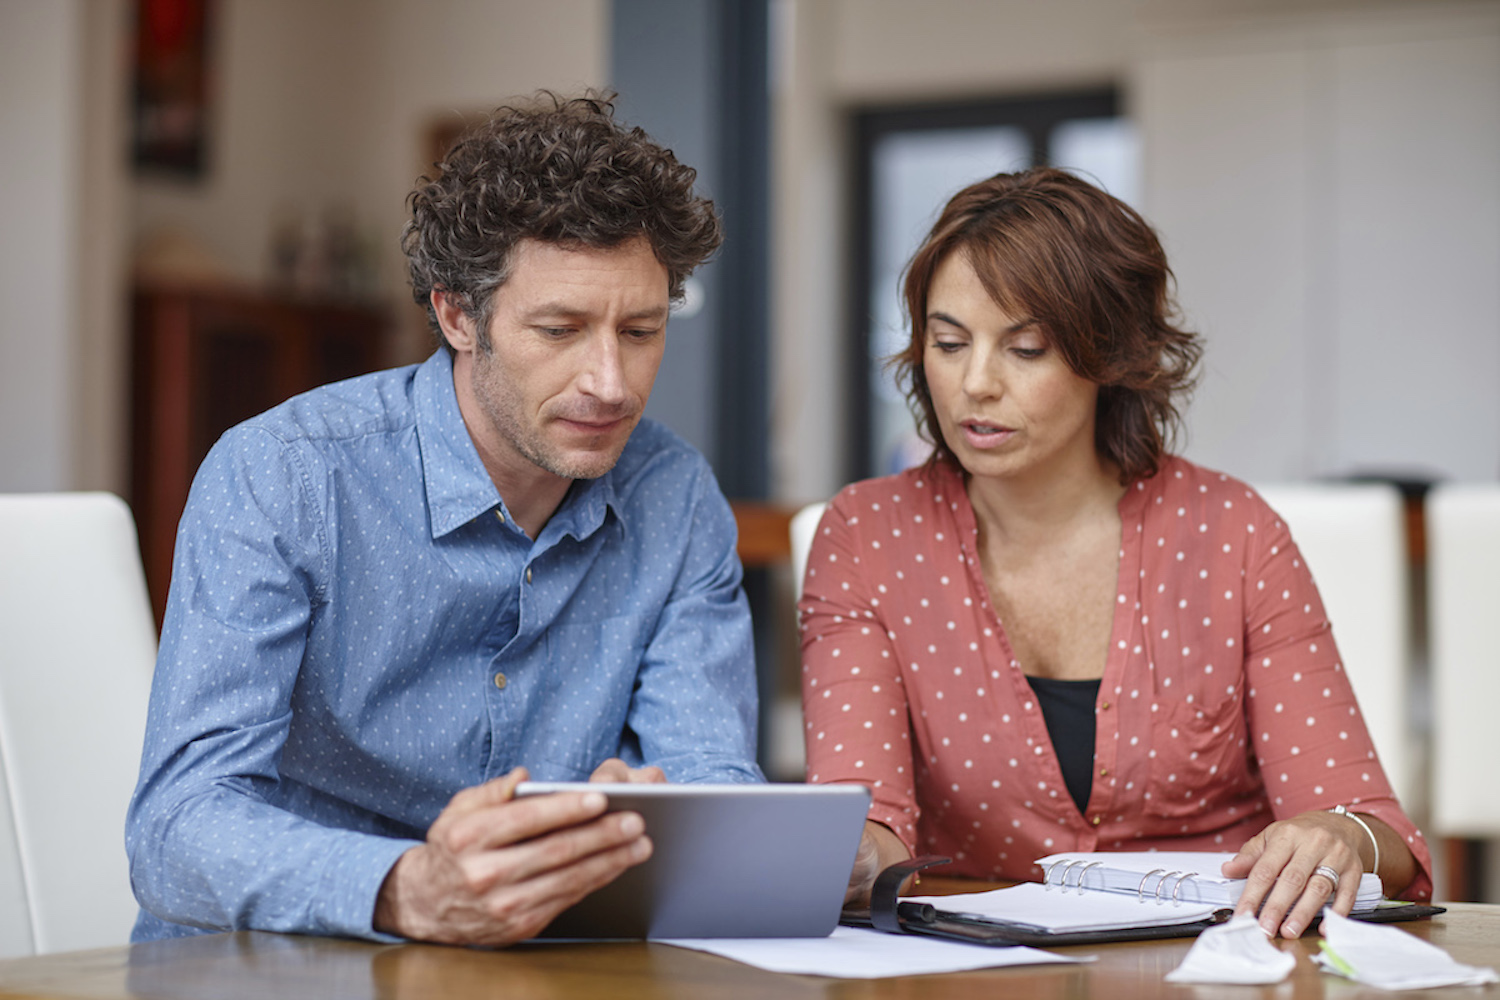
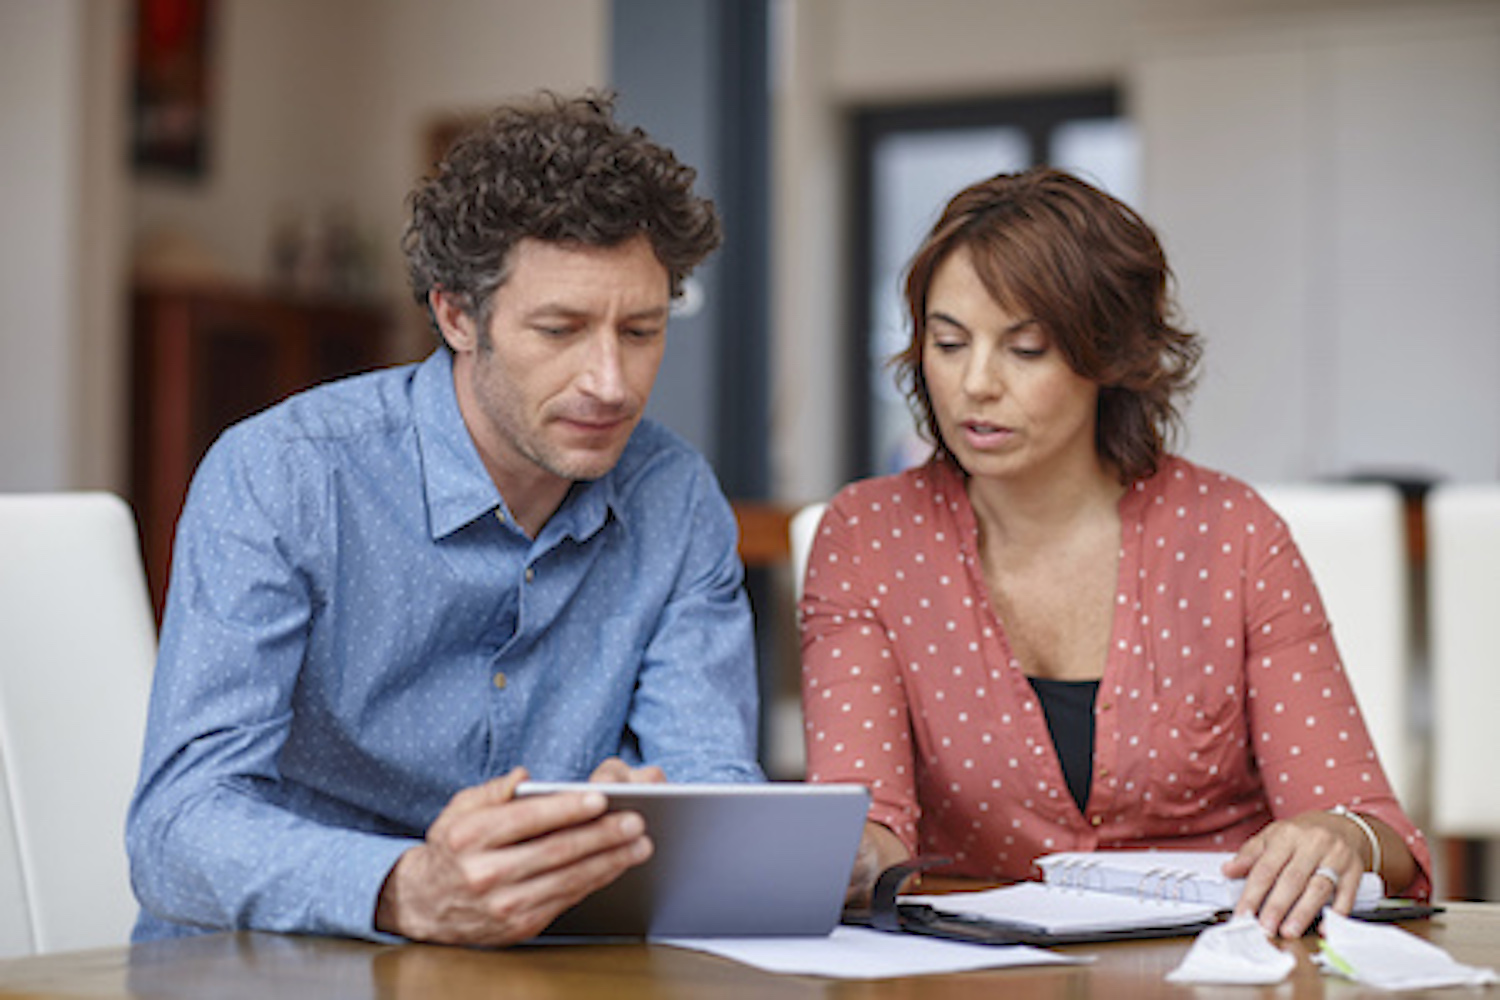
Resized background image, changed image styles

diff --git a/app/styles/missouri.scss b/app/styles/missouri.scss
@@ -5,19 +5,17 @@
 
 .mo-header {
   background-color: #ffb717;
-  height: 200px;
+  height: 100px;
 
   img {
-    width: 50%;
     float: left;
     height: 90%;
-    padding: 1em;
+    padding: 0.5em;
   }
 
   li {
     float: left;
     display: inline-block;
-    text-align: center;
     padding-right: 15px;
   }
 
@@ -29,7 +27,8 @@
 }
 
 #joint-finances {
-  background: url("/images/joint-finances.jpg");
+  background-image: url("/images/joint-finances.jpg");
   background-size: cover;
   height: 100%;
+  width: 100%;
 }
